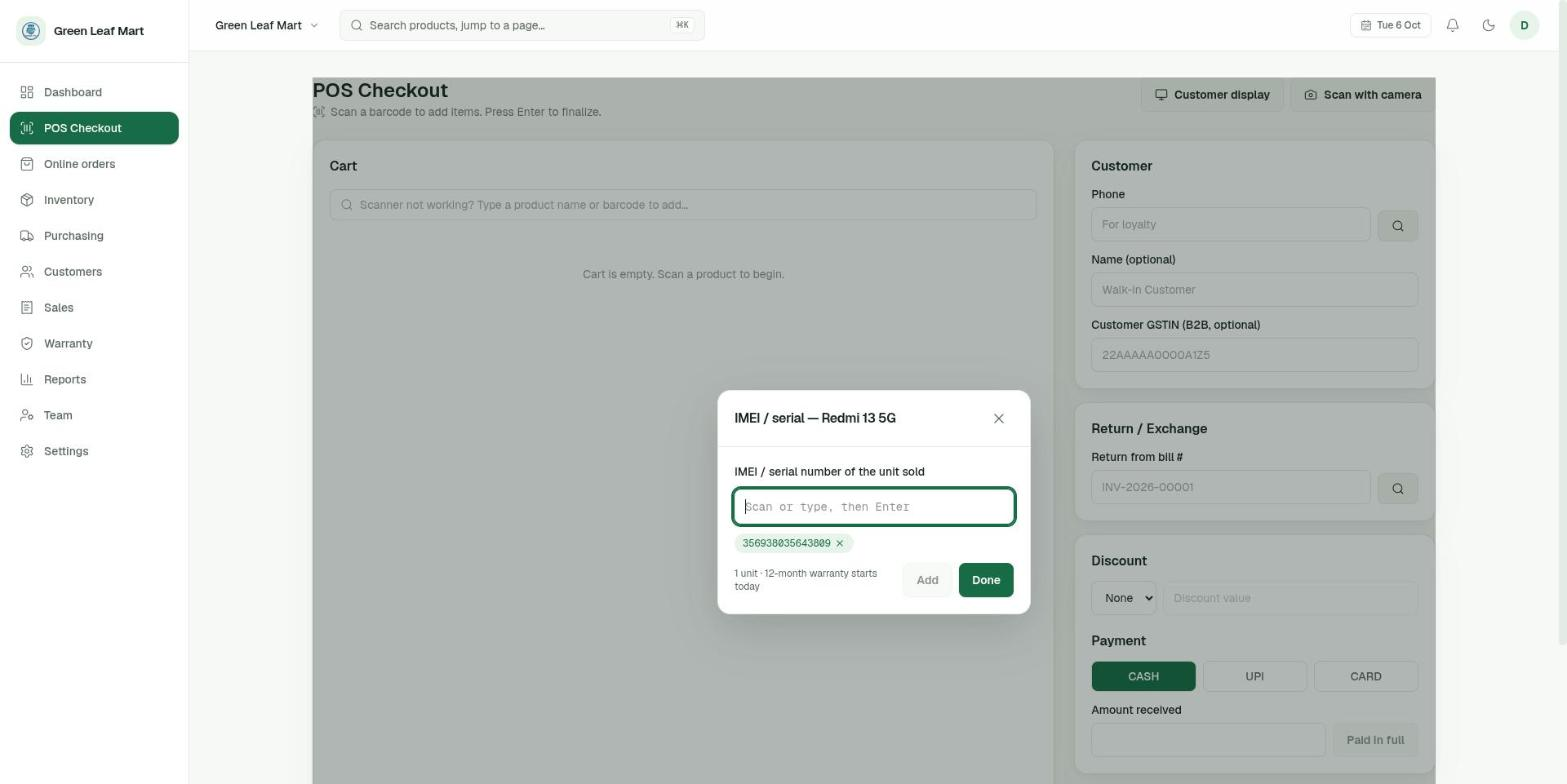
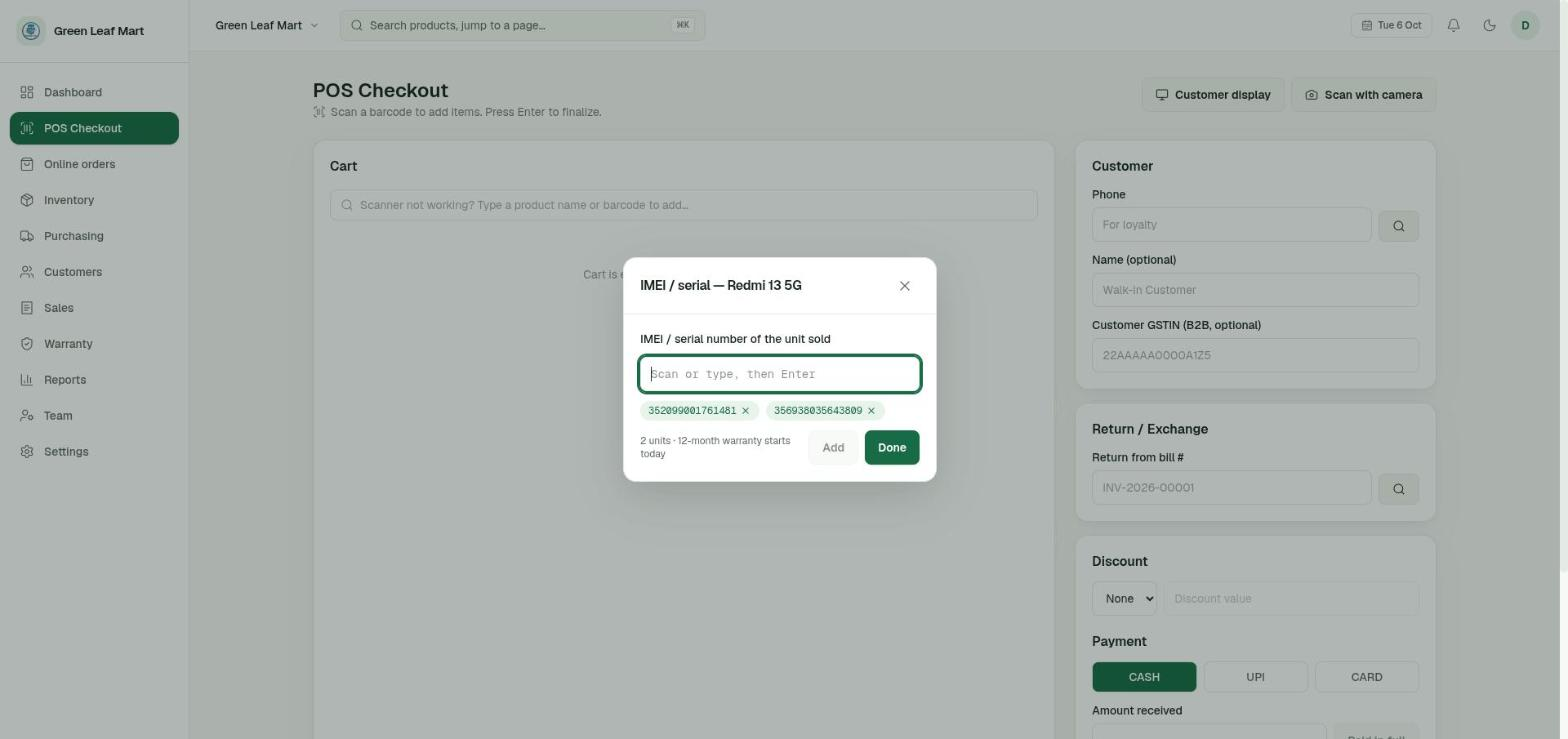
Fix dialogs being squeezed into the page container; retake dialog screenshots
- Page/card entrance animations used fill-mode 'both', which kept the page wrapper a containing block for position:fixed, so every dialog was sized and clipped to the page instead of the screen (half-dimmed backdrop, cramped Add product dialog). Use 'backwards'.
- Product dialog: sticky footer now sits flush at the bottom
- New screenshots: Add product, IMEI option, IMEI at sale; README gallery updated

diff --git a/frontend/app/globals.css b/frontend/app/globals.css
@@ -174,7 +174,11 @@ svg.lucide {
 }
 
 
-/* ---- Motion: short, transform/opacity only, one stable end state ---- */
+/* ---- Motion: short, transform/opacity only, one stable end state ----
+   IMPORTANT: use animation-fill-mode `backwards`, never `both`/`forwards`, on
+   anything that can contain a dialog. A filled transform animation keeps the
+   element a containing block for position:fixed descendants, which squeezed
+   every modal into its page container (clipped, half-dimmed, overlapping). */
 @keyframes rise-in {
   from { opacity: 0; transform: translateY(12px); }
   to { opacity: 1; transform: none; }
@@ -192,12 +196,12 @@ svg.lucide {
 @keyframes grow-y { from { transform: scaleY(0); } to { transform: scaleY(1); } }
 
 /* Page + card entrance. Stagger a group by setting style={{"--i": index}}. */
-.page-enter { animation: rise-in 320ms var(--ease-out) both; }
-.rise { animation: rise-in 340ms var(--ease-out) both; animation-delay: calc(var(--i, 0) * 45ms); }
-.drawer-in { animation: slide-in-right 300ms var(--ease-out) both; }
-.dialog-in { animation: pop-in 280ms var(--ease-out) both; }
-.backdrop-in { animation: fade-in 220ms ease-out both; }
-.bar-grow { transform-origin: bottom; animation: grow-y 700ms var(--ease-out) both; animation-delay: calc(var(--i, 0) * 40ms + 200ms); }
+.page-enter { animation: rise-in 320ms var(--ease-out) backwards; }
+.rise { animation: rise-in 340ms var(--ease-out) backwards; animation-delay: calc(var(--i, 0) * 45ms); }
+.drawer-in { animation: slide-in-right 300ms var(--ease-out) backwards; }
+.dialog-in { animation: pop-in 280ms var(--ease-out) backwards; }
+.backdrop-in { animation: fade-in 220ms ease-out backwards; }
+.bar-grow { transform-origin: bottom; animation: grow-y 700ms var(--ease-out) backwards; animation-delay: calc(var(--i, 0) * 40ms + 200ms); }
 
 /* Cards: borders + soft shadow, a 1px lift on actionable ones. */
 .card-surface { background: var(--surface); border: 1px solid var(--border); box-shadow: var(--shadow-card); border-radius: 16px; }
@@ -297,4 +301,4 @@ svg.lucide {
 
 /* Progress ring: the arc draws once from empty to its value, then stops. */
 @keyframes ring-draw { from { stroke-dashoffset: var(--len); } }
-.ring-arc { animation: ring-draw 800ms var(--ease-out) 250ms both; }
+.ring-arc { animation: ring-draw 800ms var(--ease-out) 250ms backwards; }

diff --git a/frontend/components/ProductModal.tsx b/frontend/components/ProductModal.tsx
@@ -341,7 +341,7 @@ export function ProductModal({ mode, product, initialBarcode, onClose }: Product
               </select>
             </label>
           </div>
-          <div className="sticky bottom-0 -mx-5 -mb-5 flex justify-end gap-3 border-t border-border-subtle bg-surface px-5 py-3">
+          <div className="sticky -bottom-5 -mx-5 -mb-5 flex justify-end gap-3 border-t border-border-subtle bg-surface px-5 py-3">
             <Button type="button" variant="secondary" onClick={onClose}>
               Cancel
             </Button>

diff --git a/README.md b/README.md
@@ -151,17 +151,21 @@ What is verified and what still needs real-device testing: [docs/ROADMAP.md](doc
 | --- | --- |
 | ![Board: New, Packing, Ready, Collected](docs/screenshots/orders.png) | ![Revenue, margin, category split, hourly heatmap, week comparison](docs/screenshots/reports.png) |
 
-| Inventory | Optional IMEI setting per product |
+| Inventory | Add product (Generate barcode / Scan with camera) |
 | --- | --- |
-| ![Inventory list with bulk import and label actions](docs/screenshots/inventory.png) | ![Product editor with the IMEI and warranty option](docs/screenshots/product-imei.png) |
+| ![Inventory list with bulk import and label actions](docs/screenshots/inventory.png) | ![Add product dialog with the Generate barcode and Scan with camera buttons](docs/screenshots/add-product.png) |
 
-| IMEI asked at the moment of sale | Warranty lookup |
+| Optional IMEI & warranty per product | IMEI asked at the moment of sale |
 | --- | --- |
-| ![Checkout asking for the IMEI of the unit being sold](docs/screenshots/imei-sale.png) | ![Scan an IMEI to see sale date and warranty status](docs/screenshots/warranty.png) |
+| ![Product editor with the IMEI and warranty option](docs/screenshots/product-imei.png) | ![Checkout asking for the IMEI of each unit being sold](docs/screenshots/imei-sale.png) |
 
-| Settings → Features (IMEI tracking is opt-in) | A4 tax invoice with authorised signature |
+| Warranty lookup | Settings → Features (IMEI tracking is opt-in) |
 | --- | --- |
-| ![Features tab with the IMEI toggle](docs/screenshots/features.png) | ![A4 invoice with warranty table and signature](docs/screenshots/invoice-a4.png) |
+| ![Scan an IMEI to see sale date and warranty status](docs/screenshots/warranty.png) | ![Features tab with the IMEI toggle](docs/screenshots/features.png) |
+
+| A4 tax invoice with authorised signature |
+| --- |
+| ![A4 invoice with warranty table and signature](docs/screenshots/invoice-a4.png) |
 
 ## Contents
 
